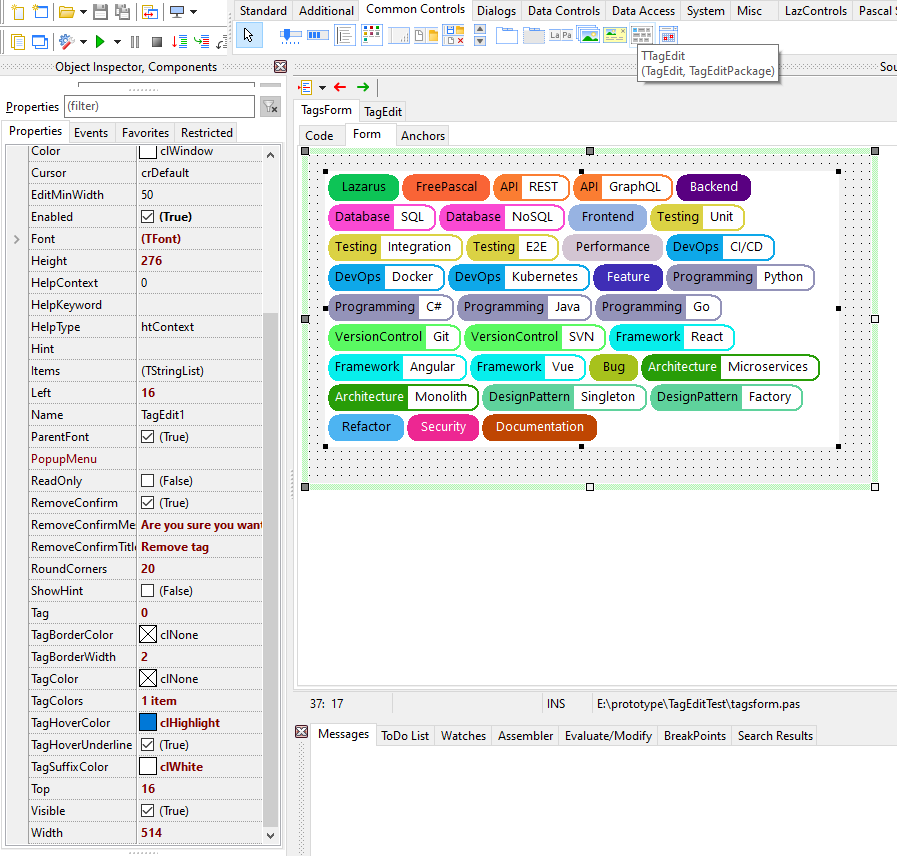
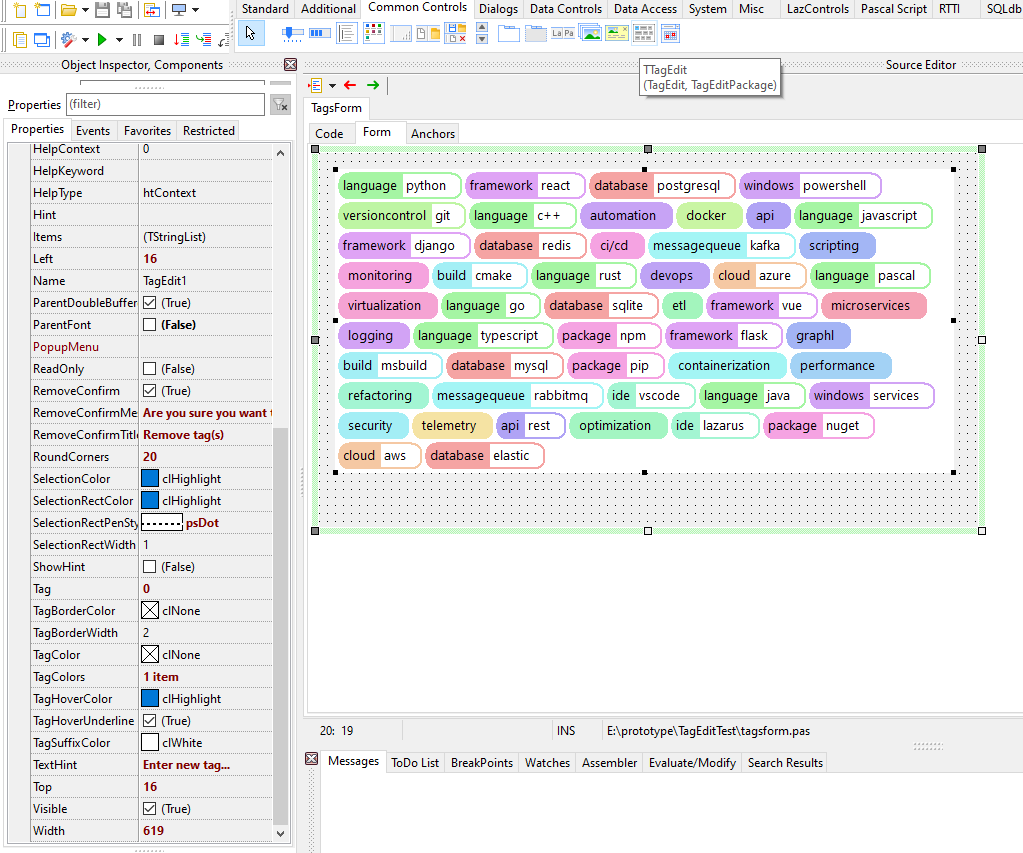
Prepare for version 1.2

diff --git a/README.md b/README.md
@@ -12,14 +12,17 @@ A versatile tag management control for Lazarus/FPC with advanced features.
 
 - **🏷 Tag Management**
   - Add tags by typing and pressing Enter
-  - Tags with suffix
+  - Tags with suffix (colon-separated)
   - Remove tags with click confirmation
   - Prevent duplicate tags
+  - Multiple tag addition (semicolon-separated)
+  - Programmatic tag management
 
 - **🔄 Drag & Drop**
   - Rearrange tags via intuitive drag-and-drop
   - Visual drop indicators
   - Smooth repositioning
+  - Configurable reordering
 
 - **🎨 Customization**
   - Custom tag colors and hover effects
@@ -28,42 +31,67 @@ A versatile tag management control for Lazarus/FPC with advanced features.
   - Random color for tag name if not defined
   - Tag color collection, assigns colors based on tag name match
   - Font and size customization
+  - High DPI/PPI scaling support
 
 - **📐 Smart Layout**
   - Automatic line wrapping
   - Dynamic edit box positioning
   - Optional auto-height adjustment
   - Responsive tag placement
+  - Automatic height calculation
 
 - **⚡ Interactive Features**
   - Hover effects with customizable colors
   - Click events for individual tags
   - Remove confirmation dialogs
   - Read-only mode support
+  - Multi-tag selection support
+  - Context menu integration
+  - Clipboard operations
 
 - **⌨ Keyboard Support**
   - Enter to add tags
   - Backspace to remove last tag
+  - Delete to remove selected tags
+  - Escape to clear selection/edit
+  - Ctrl+A to select all tags
   - Focus management
+
+- **🎯 Selection System**
+  - Multiple tag selection with mouse drag
+  - Ctrl+Click for toggle selection
+  - Visual selection rectangle
+  - Customizable selection colors
+  - Batch operations on selected tags
+
+![sample](TagEditSample2.png)
 
 ## Properties
 
 | Property | Type | Description |
 |----------|------|-------------|
 | `Align` | TAlign | Control alignment within parent |
+| `AllowReorder` | Boolean | Enable drag-and-drop tag reordering (default: True) |
+| `AllowSelect` | Boolean | Enable tag selection functionality (default: True) |
 | `Anchors` | TAnchors | Anchor points for responsive layout |
 | `AutoColorBrightness` | Integer | Brightness percentage for auto-generated tag colors (0-100) |
+| `AutoColorSaturation` | Integer | Saturation percentage for auto-generated tag colors (0-100) |
+| `AutoColorSeed` | LongWord | Seed for stable random color generation |
 | `AutoSizeHeight` | Boolean | Auto-adjust height based on content |
+| `BackspaceEditTag` | Boolean | When pressing Backspace on empty edit, move last tag to edit box instead of removing |
 | `BorderColor` | TColor | Component border color |
 | `BorderWidth` | Integer | Component border width |
 | `CloseButtons` | Boolean | Show close buttons on tags |
 | `CloseButtonOnHover` | Boolean | Show close buttons only on hover |
 | `Color` | TColor | Background color of the component |
+| `DoubleBuffered` | Boolean | Reduce flickering with double buffering |
+| `DragIndicatorColor` | TColor | Color of drag-and-drop indicator |
 | `EditMinWidth` | Integer | Minimum width of edit box |
 | `Enabled` | Boolean | Enable/disable the component |
 | `Font` | TFont | Font used for tags and edit box |
 | `Height` | Integer | Component height |
 | `Items` | TStringList | Collection of tag strings |
+| `ParentDoubleBuffered` | Boolean | Use parent's double buffering setting |
 | `ParentFont` | Boolean | Use parent component's font |
 | `PopupMenu` | TPopupMenu | Popup menu for the component |
 | `ReadOnly` | Boolean | Read-only mode (no tag editing) |
@@ -71,6 +99,10 @@ A versatile tag management control for Lazarus/FPC with advanced features.
 | `RemoveConfirmMessage` | String | Message for remove confirmation dialog |
 | `RemoveConfirmTitle` | String | Title for remove confirmation dialog |
 | `RoundCorners` | Integer | Corner radius for tags |
+| `SelectionColor` | TColor | Background color for selected tags |
+| `SelectionRectColor` | TColor | Color of selection rectangle |
+| `SelectionRectPenStyle` | TPenStyle | Pen style for selection rectangle |
+| `SelectionRectWidth` | Integer | Width of selection rectangle border |
 | `ShowHint` | Boolean | Show hint tooltips |
 | `Tag` | Integer | User-defined tag value |
 | `TagBorderColor` | TColor | Border color of tags |
@@ -80,6 +112,7 @@ A versatile tag management control for Lazarus/FPC with advanced features.
 | `TagHoverColor` | TColor | Color on mouse hover |
 | `TagHoverUnderline` | Boolean | Underline tag text on hover |
 | `TagSuffixColor` | TColor | Background color for tag suffix (after colon) |
+| `TextHint` | String | Hint text shown in empty edit box |
 | `Visible` | Boolean | Control visibility |
 | `Width` | Integer | Component width |
 
@@ -87,6 +120,7 @@ A versatile tag management control for Lazarus/FPC with advanced features.
 
 | Event | Type | Description |
 |-------|------|-------------|
+| `OnChange` | TNotifyEvent | Occurs when tags collection changes |
 | `OnClick` | TNotifyEvent | Occurs when component is clicked |
 | `OnDblClick` | TNotifyEvent | Occurs when component is double-clicked |
 | `OnKeyDown` | TKeyEvent | Occurs when key is pressed |
@@ -101,8 +135,24 @@ A versatile tag management control for Lazarus/FPC with advanced features.
 | `OnTagClick` | TTagEvent | Occurs when a tag is clicked |
 | `OnTagPopup` | TTagPopupEvent | Occurs when context menu is requested for a tag |
 | `OnTagRemove` | TTagEvent | Occurs when a tag is removed |
+| `OnTagReorder` | TTagReorderEvent | Occurs when a tag is reordered via drag-and-drop |
 
-# Installation
+## Methods
+
+| Method | Description |
+|--------|-------------|
+| `AddTag(const ATag: string)` | Add a new tag to the collection |
+| `CalculateAutoHeight: Integer` | Calculate optimal height based on content |
+| `ClearSelection` | Clear current tag selection |
+| `CopyHoverText` | Copy hovered tag text to clipboard |
+| `FinishEdit` | Force completion of current edit operation |
+| `Focus: Boolean` | Check if control has focus |
+| `GetTagsBitmap(...): TBitmap` | Generate bitmap representation of tags |
+| `RemoveTag(const ATag: string; AConfirm: Boolean)` | Remove specific tag |
+| `RemoveSelectedTags` | Remove all currently selected tags |
+| `SelectAll` | Select all tags in the control |
+
+## Installation
 
 ## Method 1: Through IDE
 1. Open Lazarus IDE
@@ -118,15 +168,18 @@ A versatile tag management control for Lazarus/FPC with advanced features.
 - You can now drag TTagEdit component to your forms
 - Use Object Inspector to customize properties
 
-## Sample usage
+## Sample Usage
 
 ```pascal
-// Add tags programmatically
-TagEdit1.Tags.Add('Lazarus');
-TagEdit1.Tags.Add('FreePascal');
+// Basic setup
+TagEdit1.Items.Add('Lazarus');
+TagEdit1.Items.Add('FreePascal');
+TagEdit1.Items.Add('Language:Pascal');
 
-// Enable auto-height
+// Enable auto-height and selection
 TagEdit1.AutoSizeHeight := True;
+TagEdit1.AllowSelect := True;
+TagEdit1.AllowReorder := True;
 
 // Customize appearance
 TagEdit1.TagColor := clSkyBlue;
@@ -135,11 +188,65 @@ TagEdit1.RoundCorners := 8;
 TagEdit1.TagBorderColor := clNavy;
 TagEdit1.TagBorderWidth := 1;
 
+// Selection customization
+TagEdit1.SelectionColor := clHighlight;
+TagEdit1.SelectionRectColor := clBlue;
+TagEdit1.SelectionRectPenStyle := psDash;
+
 // Configure remove confirmation
 TagEdit1.RemoveConfirm := True;
 TagEdit1.RemoveConfirmTitle := 'Delete Tag';
 TagEdit1.RemoveConfirmMessage := 'Are you sure you want to remove this tag?';
 
-// Set minimum edit width
+// Set minimum edit width and text hint
 TagEdit1.EditMinWidth := 10;
-```
+TagEdit1.TextHint := 'Type tags here...';
+
+// Tag color customization
+TagEdit1.TagColors.Add('Lazarus', clGreen);
+TagEdit1.TagColors.Add('Pascal', clPurple);
+
+// Advanced color settings
+TagEdit1.AutoColorBrightness := 80;
+TagEdit1.AutoColorSaturation := 80;
+TagEdit1.AutoColorSeed := 12345; // For stable random colors
+
+// Event handlers
+procedure TForm1.TagEdit1OnTagAdd(Sender: TObject; const TagText: string);
+begin
+  ShowMessage('Tag added: ' + TagText);
+end;
+
+procedure TForm1.TagEdit1OnTagReorder(Sender: TObject; const TagText: string; const NewIndex: Integer);
+begin
+  ShowMessageFmt('Tag "%s" moved to position %d', [TagText, NewIndex]);
+end;
+
+// Programmatic operations
+TagEdit1.AddTag('NewTag');
+TagEdit1.RemoveTag('OldTag');
+TagEdit1.SelectAll;
+TagEdit1.RemoveSelectedTags;
+TagEdit1.ClearSelection;
+
+// Generate tag bitmap for preview
+var
+  Bitmap: TBitmap;
+  Tags: TStringList;
+begin
+  Tags := TStringList.Create;
+  try
+    Tags.Add('Sample');
+    Tags.Add('Tags');
+    Tags.Add('Preview');
+    Bitmap := TagEdit1.GetTagsBitmap(Tags, 12, 200, 100);
+    try
+      // Use bitmap as needed
+      Image1.Picture.Bitmap := Bitmap;
+    finally
+      Bitmap.Free;
+    end;
+  finally
+    Tags.Free;
+  end;
+end;
